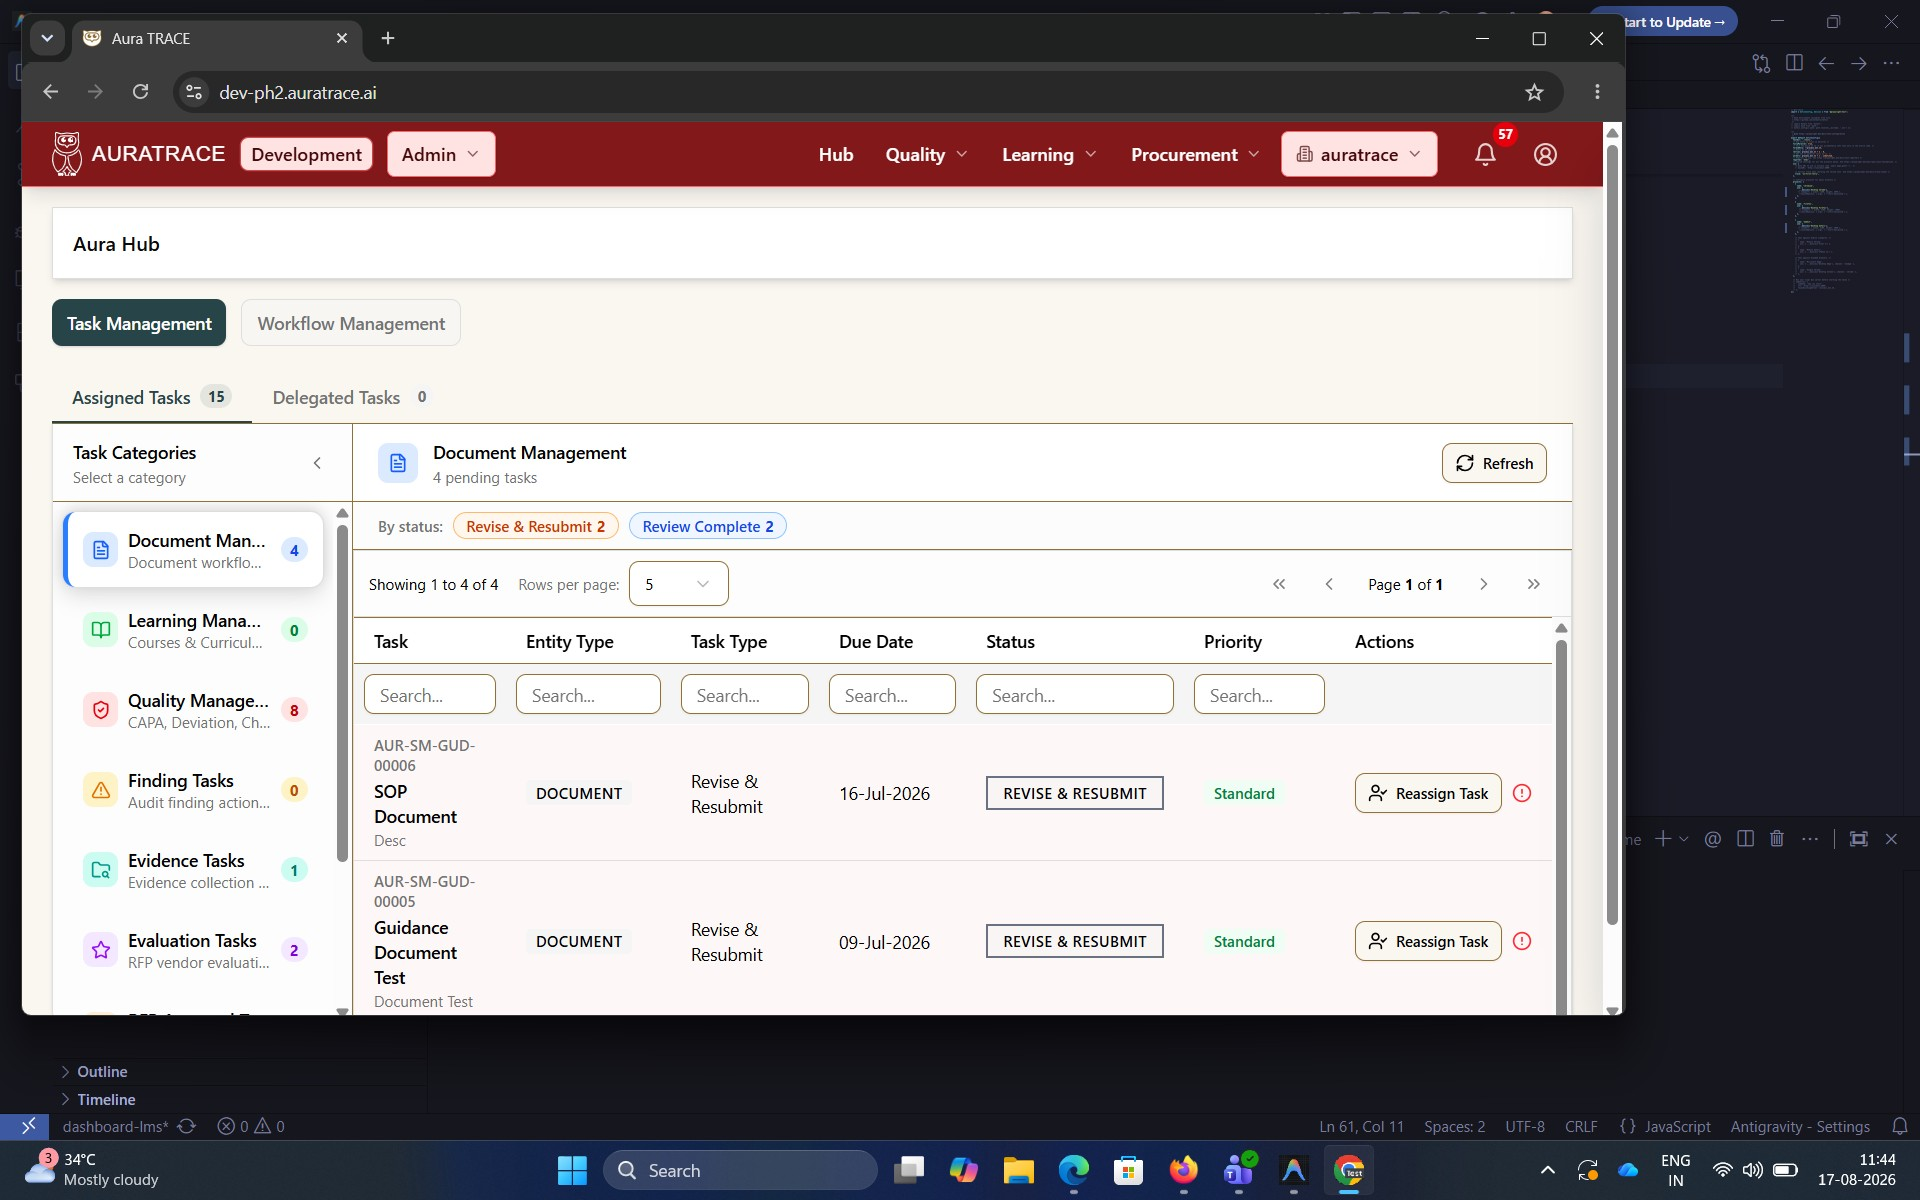
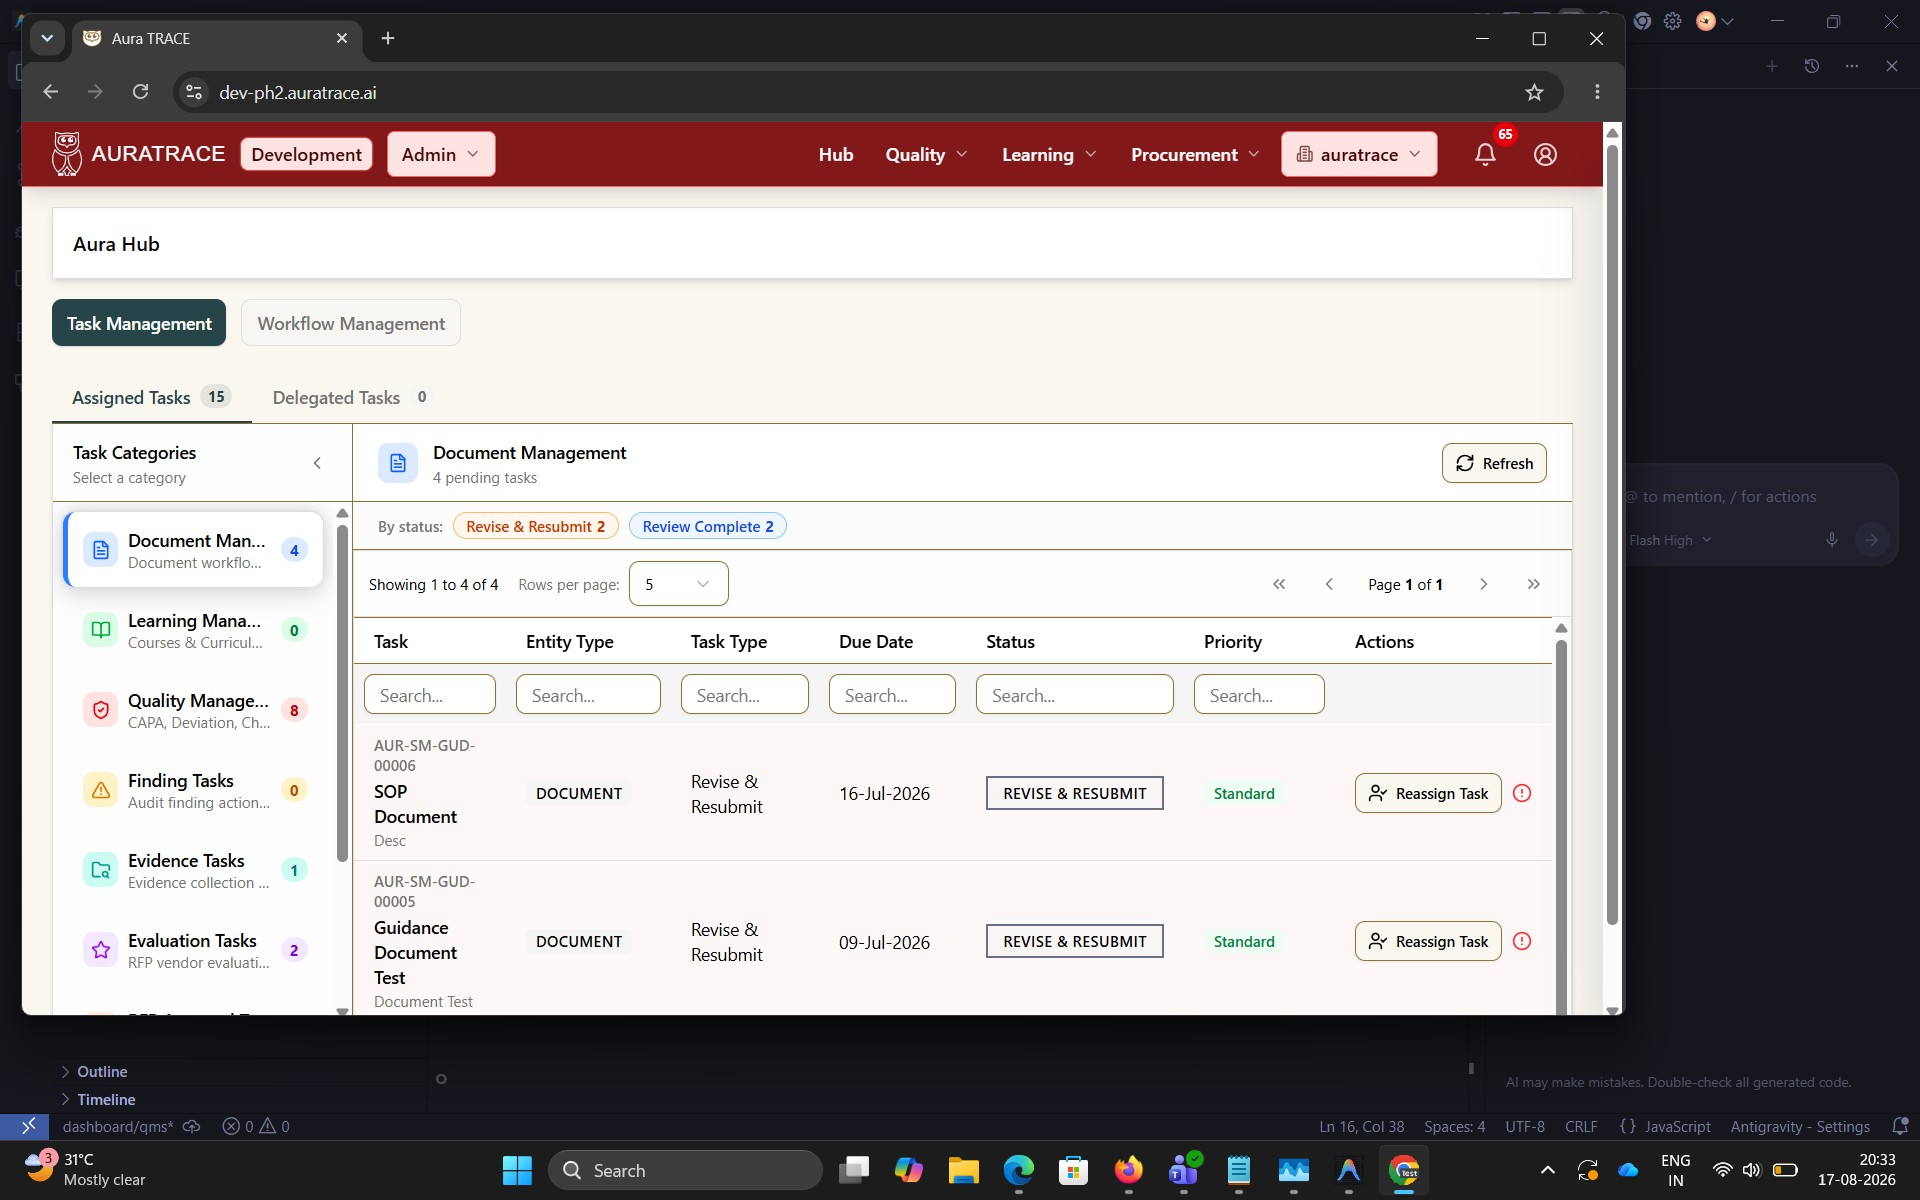
qms-screenshots

diff --git a/pages/qms.js b/pages/qms.js
@@ -1,0 +1,26 @@
+import screenshot from "screenshot-desktop";
+
+class qms {
+    constructor(page) {
+        this.page = page;
+        this.qmsBtn = '//div[@class="relative h-fit w-fit"]//button//span[text()="Quality"]';
+        this.qualityMan = `//span[text()='Document Management']`;
+        //this.docManagement = this.page.getByText(`Document Management`);
+        this.documentControlBtn = this.page.getByRole(`link`, { name: `Document Control` });
+    }
+
+    async qmsDashboard() {
+        await this.page.locator(this.qmsBtn).click();
+        await this.page.locator(this.qualityMan).click();
+        // await this.page.pause();
+        await this.documentControlBtn.click();
+        await this.page.waitForURL('https://dev-ph2.auratrace.ai/quality/document-control');
+        await screenshot({ filename: './screenshots/quality-documentcontrol-page.jpg', fullpage: true });
+
+    }
+
+
+}
+
+
+export default qms;

diff --git a/playwright.config.js b/playwright.config.js
@@ -48,8 +48,8 @@ export default defineConfig({
       name: 'firefox',
       use: {
         ...devices['Desktop Firefox'],
-        // viewport: { width: 1200, height: 1980},
-        //launchOptions: { args: ['--start-maximized'] },
+        viewport: { width: 1200, height: 1980},
+        launchOptions: { args: ['--start-maximized'] },
       },
     },
 
@@ -58,7 +58,7 @@ export default defineConfig({
       use: {
         ...devices['Desktop Safari'],
        // viewport: { width: 1200, height: 1980 },
-        //launchOptions: { args: ['--start-maximized'] },
+        launchOptions: { args: ['--start-maximized'] },
       },
     },
 

diff --git a/tests/qms.spec.js b/tests/qms.spec.js
@@ -1,0 +1,11 @@
+import {test} from "@playwright/test";
+import QMS from "../pages/qms";
+import loginPage from '../pages/loginPage.js';
+
+test('QMS Dashboard', async ({page}) => {
+    const login = new loginPage(page);
+    await login.goto();
+    await login.login('admin@auratrace.ai', 'admin');
+    const qms = new QMS(page);
+    await qms.qmsDashboard();
+})
